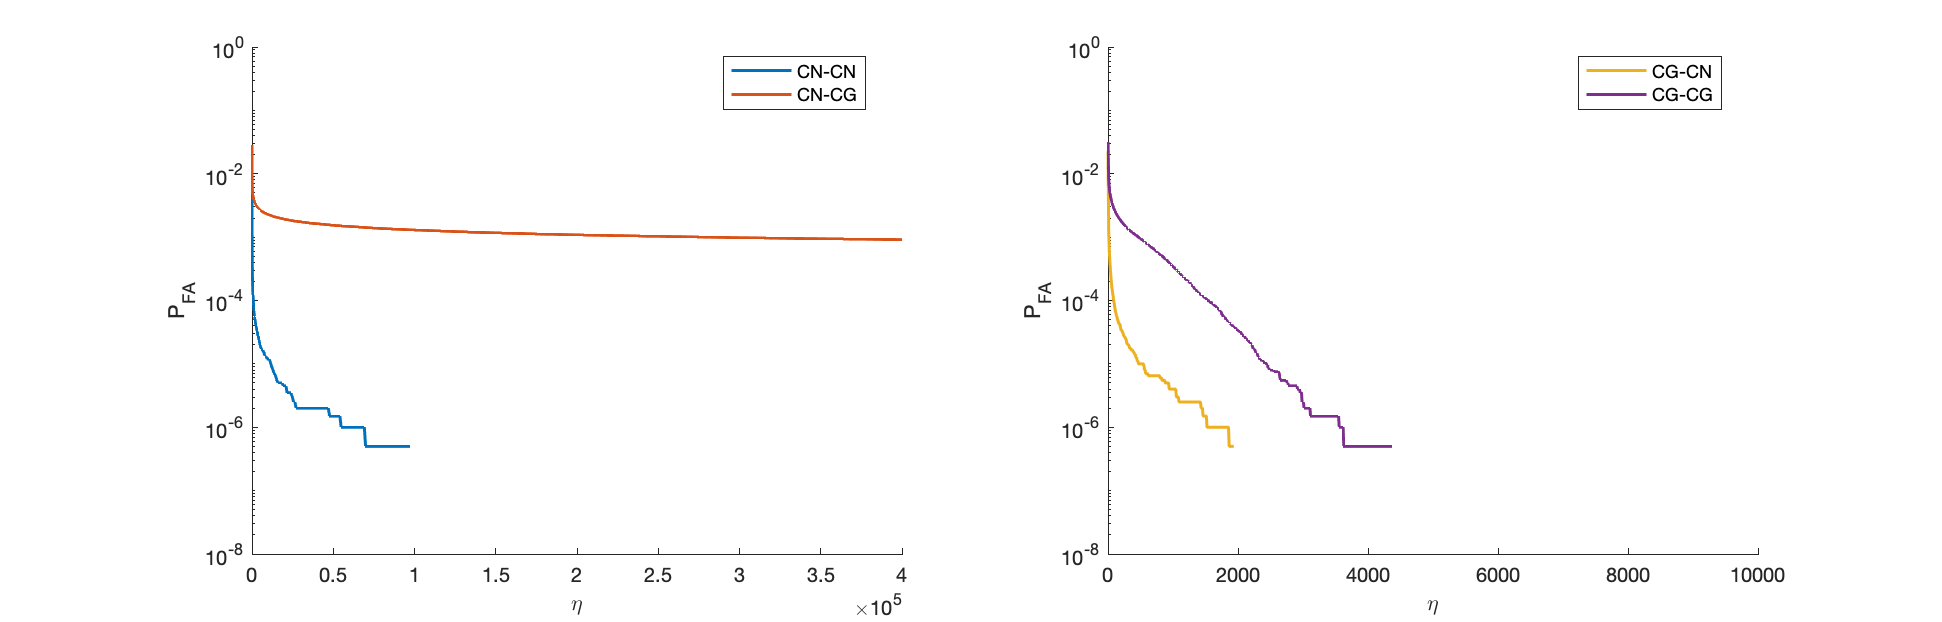
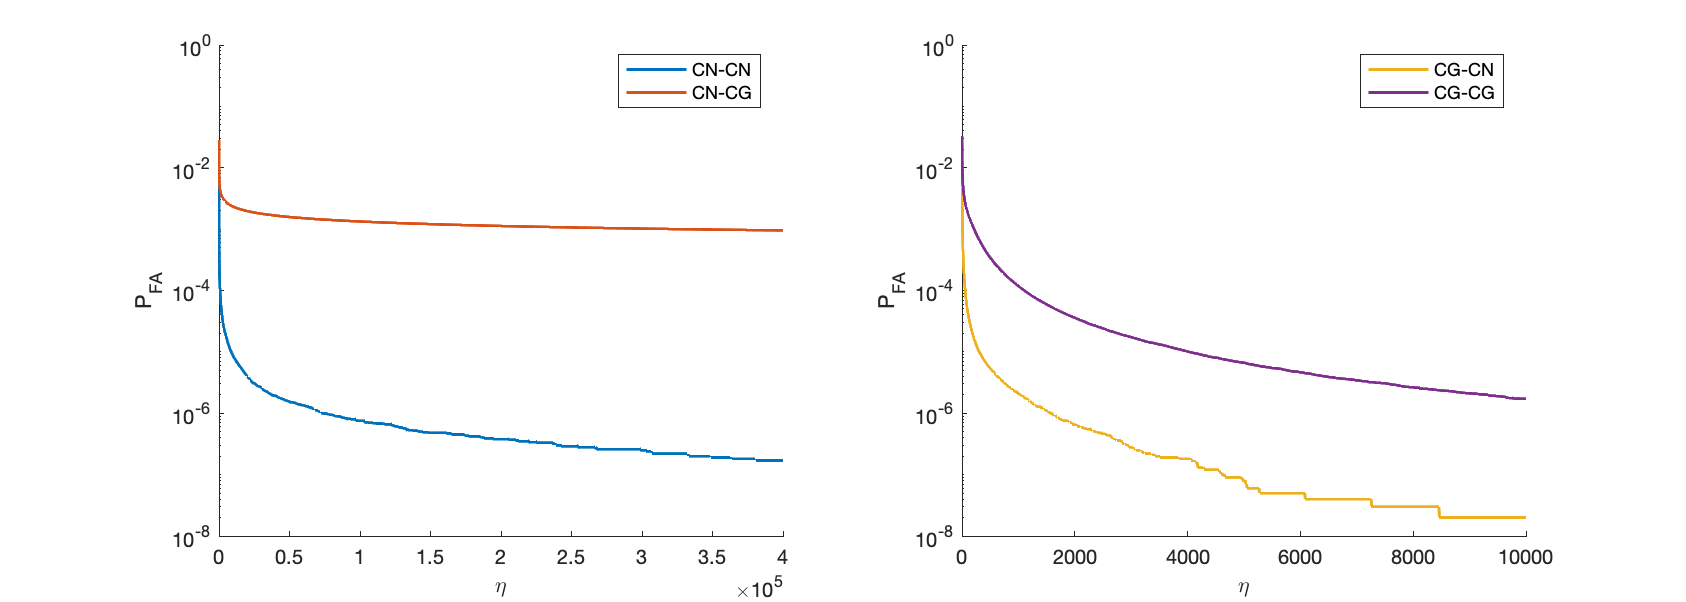
Implemented Erik's optimizing to FAvsEta and made new plot for the report.

diff --git a/Task1/Task1_FAvsETA.m b/Task1/Task1_FAvsETA.m
@@ -7,11 +7,12 @@
 clear
 clc
 
-sampleSize = 2*1e6;
+sampleSize = 1e8;
 
 numberOfEtaValues = 1000;
 maxEta = 4*1e5;
-etaValues = [linspace(0.5, 5000, numberOfEtaValues*0.5),linspace(5000, maxEta, numberOfEtaValues*0.5)]; 
+etaValuesCN = [linspace(0.5, 5000, numberOfEtaValues*0.5),linspace(5000, maxEta, numberOfEtaValues*0.5)];
+etaValuesCG = [linspace(0.5, 200, numberOfEtaValues*0.2),linspace(200, 1e4, numberOfEtaValues*0.8)];
 
 
 detectorSigma = 1; % The standard deviation for the detector
@@ -33,52 +34,53 @@ clutterSampleCN = SampleComplexGaussian(sampleSize, clutterMean, clutterSigma); 
 clutterSampleCG = SampleCompoundGaussian(sampleSize, clutterMean, clutterSigma); % ?
 %signalSampleCG = clutterSampleCG + s;
 
+sumFA_CNCN = zeros(1, numberOfEtaValues);
+sumFA_CNCG = zeros(1, numberOfEtaValues);
+sumFA_CGCN = zeros(1, numberOfEtaValues);
+sumFA_CGCG = zeros(1, numberOfEtaValues);
 
+% False Alarm (*)
+fH1_fa_CNCN = ComplexGaussianPDF(clutterSampleCN, detectorMean + s, detectorSigma); 
+fH0_fa_CNCN = ComplexGaussianPDF(clutterSampleCN, detectorMean, detectorSigma);
 
-pFalseAlarmCNCN = zeros(1, numberOfEtaValues);
-pFalseAlarmCNCG = zeros(1, numberOfEtaValues);
-pFalseAlarmCGCN = zeros(1, numberOfEtaValues);
-pFalseAlarmCGCG = zeros(1, numberOfEtaValues);
+fH1_fa_CNCG = ComplexGaussianPDF(clutterSampleCG, detectorMean + s, detectorSigma); 
+fH0_fa_CNCG = ComplexGaussianPDF(clutterSampleCG, detectorMean, detectorSigma);
+
+fH1_fa_CGCN = CompoundGaussianPDF(clutterSampleCN, detectorMean + s, detectorSigma); 
+fH0_fa_CGCN = CompoundGaussianPDF(clutterSampleCN, detectorMean, detectorSigma);
+
+fH1_fa_CGCG = CompoundGaussianPDF(clutterSampleCG, detectorMean + s, detectorSigma); 
+fH0_fa_CGCG = CompoundGaussianPDF(clutterSampleCG, detectorMean, detectorSigma);
+
 
 
 for iEta=1:numberOfEtaValues
-    eta = etaValues(iEta); 
+    etaCN = etaValuesCN(iEta);
+    etaCG = etaValuesCG(iEta);
     
-    % False Alarm 
-    fH1_fa = ComplexGaussianPDF(clutterSampleCN, detectorMean + s, detectorSigma); 
-    fH0_fa = ComplexGaussianPDF(clutterSampleCN, detectorMean, detectorSigma);
-    sumFA_CNCN = sum(((fH1_fa./fH0_fa) > eta));
+    sumFA_CNCN(1, iEta) = sum(((fH1_fa_CNCN./fH0_fa_CNCN) > etaCN));
 
-    % False Alarm 
-    fH1_fa = ComplexGaussianPDF(clutterSampleCG, detectorMean + s, detectorSigma); 
-    fH0_fa = ComplexGaussianPDF(clutterSampleCG, detectorMean, detectorSigma);
-    sumFA_CNCG = sum(((fH1_fa./fH0_fa) > eta));
+    sumFA_CNCG(1, iEta) = sum(((fH1_fa_CNCG./fH0_fa_CNCG) > etaCN));
 
-    % False Alarm 
-    fH1_fa = CompoundGaussianPDF(clutterSampleCN, detectorMean + s, detectorSigma); 
-    fH0_fa = CompoundGaussianPDF(clutterSampleCN, detectorMean, detectorSigma);
-    sumFA_CGCN = sum(((fH1_fa./fH0_fa) > eta));
+    sumFA_CGCN(1, iEta) = sum(((fH1_fa_CGCN./fH0_fa_CGCN) > etaCG));
 
-    % False Alarm 
-    fH1_fa = CompoundGaussianPDF(clutterSampleCG, detectorMean + s, detectorSigma); 
-    fH0_fa = CompoundGaussianPDF(clutterSampleCG, detectorMean, detectorSigma);
-    sumFA_CGCG = sum(((fH1_fa./fH0_fa) > eta));
-    
-
-
-    pFalseAlarmCNCN(iEta) = sumFA_CNCN/sampleSize;
-    pFalseAlarmCNCG(iEta) = sumFA_CNCG/sampleSize;
-    pFalseAlarmCGCN(iEta) = sumFA_CGCN/sampleSize;
-    pFalseAlarmCGCG(iEta) = sumFA_CGCG/sampleSize;
-
+    sumFA_CGCG(1, iEta) = sum(((fH1_fa_CGCG./fH0_fa_CGCG) > etaCG));
+   
+    iEta
 end
+
+pFalseAlarmCNCN = sumFA_CNCN/sampleSize;
+pFalseAlarmCNCG = sumFA_CNCG/sampleSize;
+pFalseAlarmCGCN = sumFA_CGCN/sampleSize;
+pFalseAlarmCGCG = sumFA_CGCG/sampleSize;
+
 
 
 %% Plotting
 subplot(1,2,1)
 hold on
-plot(etaValues,pFalseAlarmCNCN, LineWidth=1.5)
-plot(etaValues,pFalseAlarmCNCG, LineWidth=1.5)
+plot(etaValuesCN,pFalseAlarmCNCN, LineWidth=1.5)
+plot(etaValuesCN,pFalseAlarmCNCG, LineWidth=1.5)
 set(gca, 'YScale', 'log');
 ylabel('P_{FA}'), xlabel('\eta')
 legend('CN-CN', 'CN-CG', location='best')
@@ -87,8 +89,8 @@ axis([0, maxEta, 1e-8, 1])
 subplot(1,2,2)
 set(gca,'ColorOrderIndex',3)
 hold on
-plot(etaValues,pFalseAlarmCGCN, LineWidth=1.5)
-plot(etaValues,pFalseAlarmCGCG, LineWidth=1.5)
+plot(etaValuesCG,pFalseAlarmCGCN, LineWidth=1.5)
+plot(etaValuesCG,pFalseAlarmCGCG, LineWidth=1.5)
 set(gca, 'YScale', 'log');
 ylabel('P_{FA}'), xlabel('\eta')
 legend('CG-CN','CG-CG', location='best')
